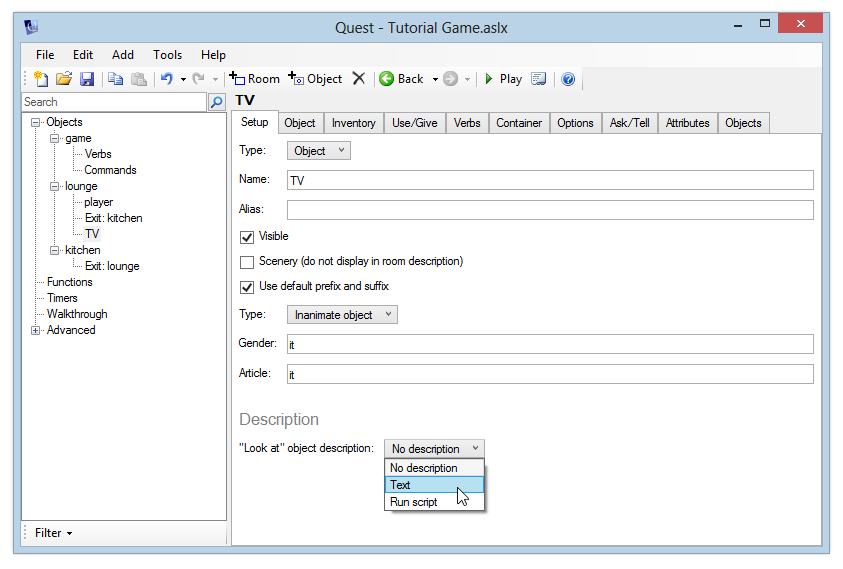
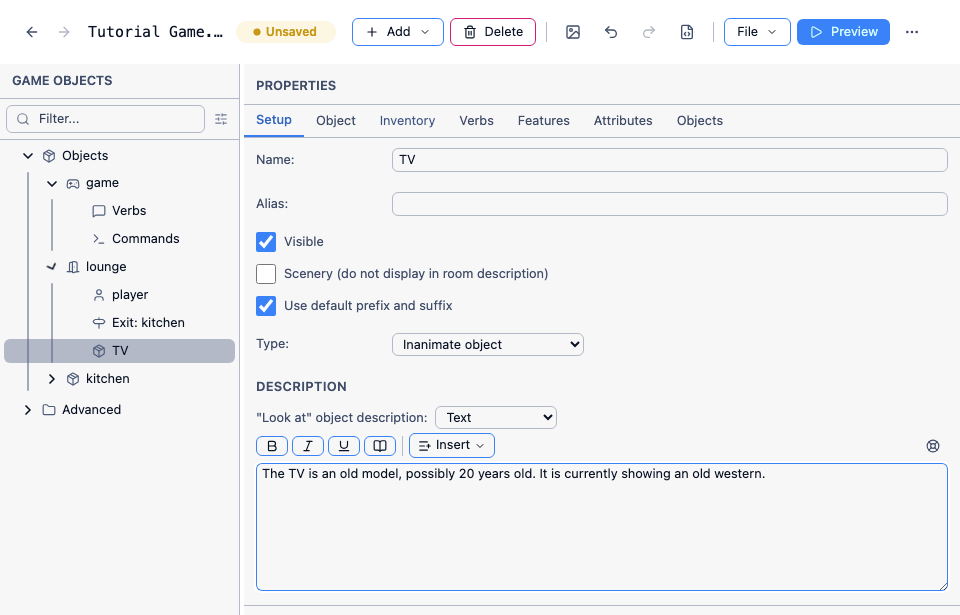
feat: add Playwright harness for regenerating stale editor screenshots
Most screenshots in the migrated Quest 5 docs show the old desktop/web
editor, which no longer exists — Quest Viva has one unified AppShell
editor now. Adds tests/e2e/docs-screenshots/ (shared helpers in lib.mjs
plus one capture script per doc page) to regenerate them against the
live editor instead of by hand, and a .claude/skills/docs-screenshots
skill documenting the approach and gotchas (no id/aria-label hooks on
property fields, real ellipsis chars in placeholders, ambiguous tab
labels like "Object" vs "Objects").

Pilot covers tutorial/creating_a_simple_game.md's 7 screenshots. Capture
viewport is kept narrow (960px) and cropped to actual content per shot
(not the full window) so text stays legible once Starlight scales the
image down to its content column width.

Changed region(s): [[0.0, 0.0, 1.0, 0.9859]]

diff --git a/.claude/skills/docs-screenshots/SKILL.md b/.claude/skills/docs-screenshots/SKILL.md
@@ -1,0 +1,81 @@
+---
+name: docs-screenshots
+description: Regenerate stale editor screenshots embedded in site/src/content/docs/ against the current AppShell editor, using a Playwright capture harness
+---
+
+# Regenerating docs editor screenshots
+
+## Why this exists
+
+The migrated Quest 5 docs (`site/src/content/docs/`) embed ~299 screenshots.
+Most show the **old Quest 5 desktop/web editor** — a Windows Forms app with a
+ribbon toolbar — which no longer exists. Quest Viva ships one unified editor
+now (`src/AppShell/`, a SvelteKit SPA, same UI in a browser tab or the
+Electron app). This skill captures fresh screenshots against that real,
+running editor instead of by hand.
+
+## Current scope
+
+**In scope today: editor-chrome screenshots** — pages showing the editor's own
+UI (tree, tabs, forms, dialogs). Root `site/public/images/` and
+`site/public/images/other_guides/`, roughly 150 images.
+
+**Out of scope — do not extend this harness to these without re-scoping first:**
+- **In-game player screenshots** (~60 images, showing gameplay output, not the
+  editor) — needs a different harness driving WasmPlayer/WebPlayer with an
+  actual built `.aslx` game reaching a specific play state. A separate problem.
+- **`site/public/images/helpsheets/`** (~152 images) — a large, distinct
+  beginner-oriented track. Worth its own decision on approach before touching.
+- **External/non-Quest images** — Trizbort app screenshots, YouTube embed UI,
+  hand-drawn diagrams like `architecture.png`. Not Quest UI; nothing to regenerate.
+
+## How it works
+
+`tests/e2e/docs-screenshots/` (part of the `quest-e2e` Playwright package —
+see `.claude/skills/verify/SKILL.md` for the base convention this extends):
+
+- **`lib.mjs`** — shared helpers: `createLocalDraft`, `selectTreeNode`,
+  `addElement`, `openTab`, `fieldByLabel`/`setLabeledField`/`selectLabeledField`,
+  `capture`, and the `runCapture` try/finally wrapper. Reuse these rather than
+  re-deriving selectors — they're built on DOM patterns already proven out
+  across `tests/e2e/verify-appshell-*.mjs`.
+- **One capture script per doc page**, e.g.
+  `capture-tutorial-creating-a-simple-game.mjs`. Each script walks through
+  *that page's own narrative* — the same room/object names and steps the
+  prose already tells the reader to perform — and calls `capture()` at every
+  point the doc currently embeds a screenshot, saving over the **existing
+  filename** in `site/public/images/`. Same filename in, same filename out —
+  no markdown edits needed.
+
+Viewport is fixed at 1280×800 (`lib.mjs`'s `VIEWPORT`), light theme, for a
+consistent look across captures.
+
+## Adding a new capture script
+
+1. Read the target doc page and note, in order, what state each embedded
+   image is meant to show — usually obvious from the surrounding prose (it's
+   literally instructing the reader what to click/type right before each image).
+2. Start the AppShell dev server (`.claude/launch.json`'s `AppShell` config,
+   `npm run dev` in `src/AppShell`, port 5174).
+3. Walk the same steps interactively first (browser tooling, or Playwright's
+   inspector) to confirm selectors/labels — **don't guess DOM structure**.
+   Property-panel fields have no id/name/aria-label; they're `<span>label</span>`
+   immediately followed by the input, which is what `fieldByLabel` encodes.
+   Watch for real ellipsis characters (`…`, not `...`) in placeholders, and
+   remember tab bars can have near-duplicate labels (e.g. an object has both
+   an "Object" tab and an "Objects" tab) — `openTab`/`addElement` use exact
+   role matching for this reason, not substring `:has-text()`.
+4. Write `capture-<page-slug>.mjs` in `tests/e2e/docs-screenshots/`, importing
+   from `./lib.mjs`, following `capture-tutorial-creating-a-simple-game.mjs`
+   as the reference example.
+5. Run it: `cd tests/e2e && node docs-screenshots/capture-<page-slug>.mjs http://localhost:5174`
+6. `Read` each output image and check it actually matches what the doc prose
+   describes before considering it done (right object names, right tab, right
+   content — not just "a screenshot got saved").
+
+## Re-running when the editor UI changes
+
+AppShell is under active development. When its UI visibly changes in a way
+that makes existing captures stale, re-run the affected `capture-*.mjs`
+scripts rather than manually redoing screenshots by hand — that's the entire
+point of this harness existing.
